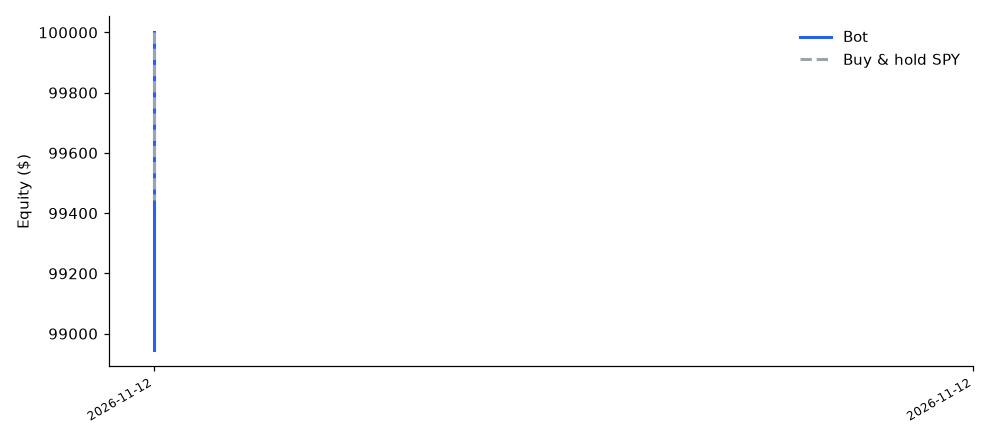
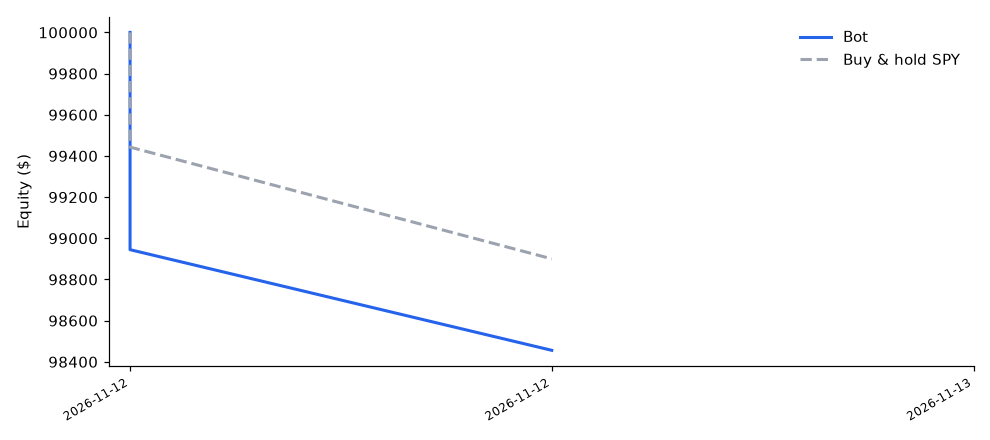
bot: 2026-11-13 15:45 ET

diff --git a/SCORECARD.md b/SCORECARD.md
@@ -2,30 +2,30 @@
 
 _Simulated money only. Updated automatically after each trading day. Live view: the dashboard link in the README._
 
-Since 2026-11-12 - 1 trading day(s)
+Since 2026-11-12 - 2 trading day(s)
 
-**Trailing buy-and-hold SPY by 0.50 points.** Only 1 trading day(s) so far - too early to judge (wait for 20+).
+**Trailing buy-and-hold SPY by 0.44 points.** Only 2 trading day(s) so far - too early to judge (wait for 20+).
 
 | | Bot | Buy & hold SPY |
 |---|---|---|
-| Return | -1.06% | -0.56% |
-| Equity | $98,944.66 | $99,442.81 |
+| Return | -1.54% | -1.10% |
+| Equity | $98,455.83 | $98,900.07 |
 
 ## Stats
 
 | Metric | Value |
 |---|---|
-| Total P&L | -$1,055.34 |
-| P&L after est. slippage (3 bps/side, what real money might see) | -$1,122.75 (-1.12%) |
-| Trades | 6 |
-| Win rate | 17% |
-| Avg win / avg loss | $72.53 / -$225.57 |
-| Profit factor | 0.06 |
-| Max drawdown | -1.06% |
-| Best / worst day | -$1,055.34 / -$1,055.34 |
-| Green days | 0 of 1 |
-| Longs | 5 trades, -$1,127.87 |
-| Shorts | 1 trades, $72.53 |
+| Total P&L | -$1,544.17 |
+| P&L after est. slippage (3 bps/side, what real money might see) | -$1,670.73 (-1.67%) |
+| Trades | 11 |
+| Win rate | 9% |
+| Avg win / avg loss | $72.53 / -$161.44 |
+| Profit factor | 0.04 |
+| Max drawdown | -1.54% |
+| Best / worst day | -$486.51 / -$1,055.34 |
+| Green days | 0 of 2 |
+| Longs | 7 trades, -$1,262.84 |
+| Shorts | 4 trades, -$279.01 |
 
 ## Is the AI news filter helping?
 
@@ -42,12 +42,18 @@ Real bid-ask spread at signal time, main list: median **0.034%** over 26 signals
 
 | Date | P&L | Bot % | SPY % | Trades | AI blocked |
 |---|---|---|---|---|---|
+| 2026-11-13 | -$486.51 | -0.49% | -0.97% | 5 | 0 |
 | 2026-11-12 | -$1,055.34 | -1.05% | +0.37% | 6 | 3 |
 
 ## Recent trades
 
 | Date | Symbol | Side | Qty | Entry | Exit | P&L |
 |---|---|---|---|---|---|---|
+| 2026-11-13 | NFLX | long | 310 | 63.78 | 63.61 | -$53.56 |
+| 2026-11-13 | CSCO | short | 205 | 96.18 | 96.63 | -$92.25 |
+| 2026-11-13 | AMAT | short | 54 | 360.46 | 363.82 | -$181.23 |
+| 2026-11-13 | IBIT | short | 508 | 38.88 | 39.03 | -$78.06 |
+| 2026-11-13 | KDP | long | 544 | 36.35 | 36.2 | -$81.41 |
 | 2026-11-12 | NKE | short | 524 | 37.95 | 37.81 | $72.53 |
 | 2026-11-12 | TQQQ | long | 234 | 60.87 | 59.72 | -$269.10 |
 | 2026-11-12 | ARKK | long | 258 | 77.23 | 76.47 | -$194.94 |
